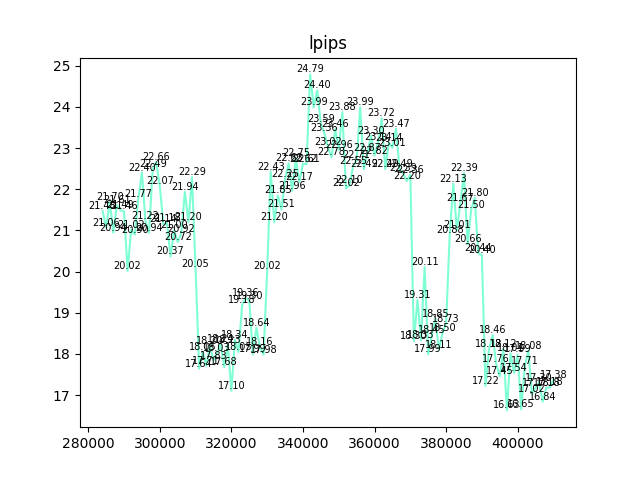
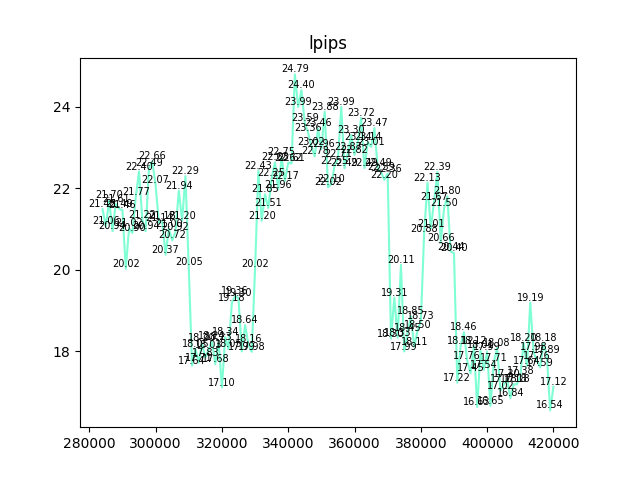
add

diff --git a/ReaderCSVToImage.py b/ReaderCSVToImage.py
@@ -1,9 +1,9 @@
 import csv
 
 from matplotlib import pyplot as plt
-subdir = 'kth_channel_128'
+#subdir = 'kth_channel_128'
 #subdir = 'kth128'
-#subdir = 'threemau_multidim_cross'
+subdir = 'threemau_multidim_cross'
 #subdir = 'mulmul_o_3x7'
 #subdir = 'threemau_multidim_cache_cross'
 #subdir = 'threemau_multidim_cache_cross_mul'
